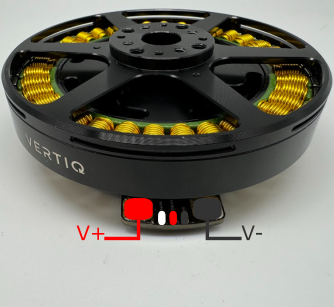
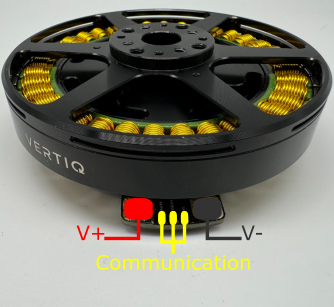
updated 81 gen 2 pics, updated text

Changed region(s): [[0.2695, 0.6743, 0.7485, 0.8795]]

diff --git a/docs/modules/vertiq_81xx_family.rst b/docs/modules/vertiq_81xx_family.rst
@@ -81,7 +81,7 @@ Required IQUART or Hobby Configuration
 
         Vertiq 81-XX Gen 1 Family Serial Connections
 
-In order to use either :ref:`IQUART <uart_messaging>` or any :ref:`Hobby Protocols <manual_hobby>` you will have to connect the supplied communication wire to your module. 
+In order to use either :ref:`IQUART <uart_messaging>` or any :ref:`Hobby Protocols <manual_hobby>` you will have to connect communication wiring to your module. 
 In any scenario, please ensure that the TX line of your module is connected to your controller's RX line, and the RX line 
 of your module is connected to your controller's TX line.
 
